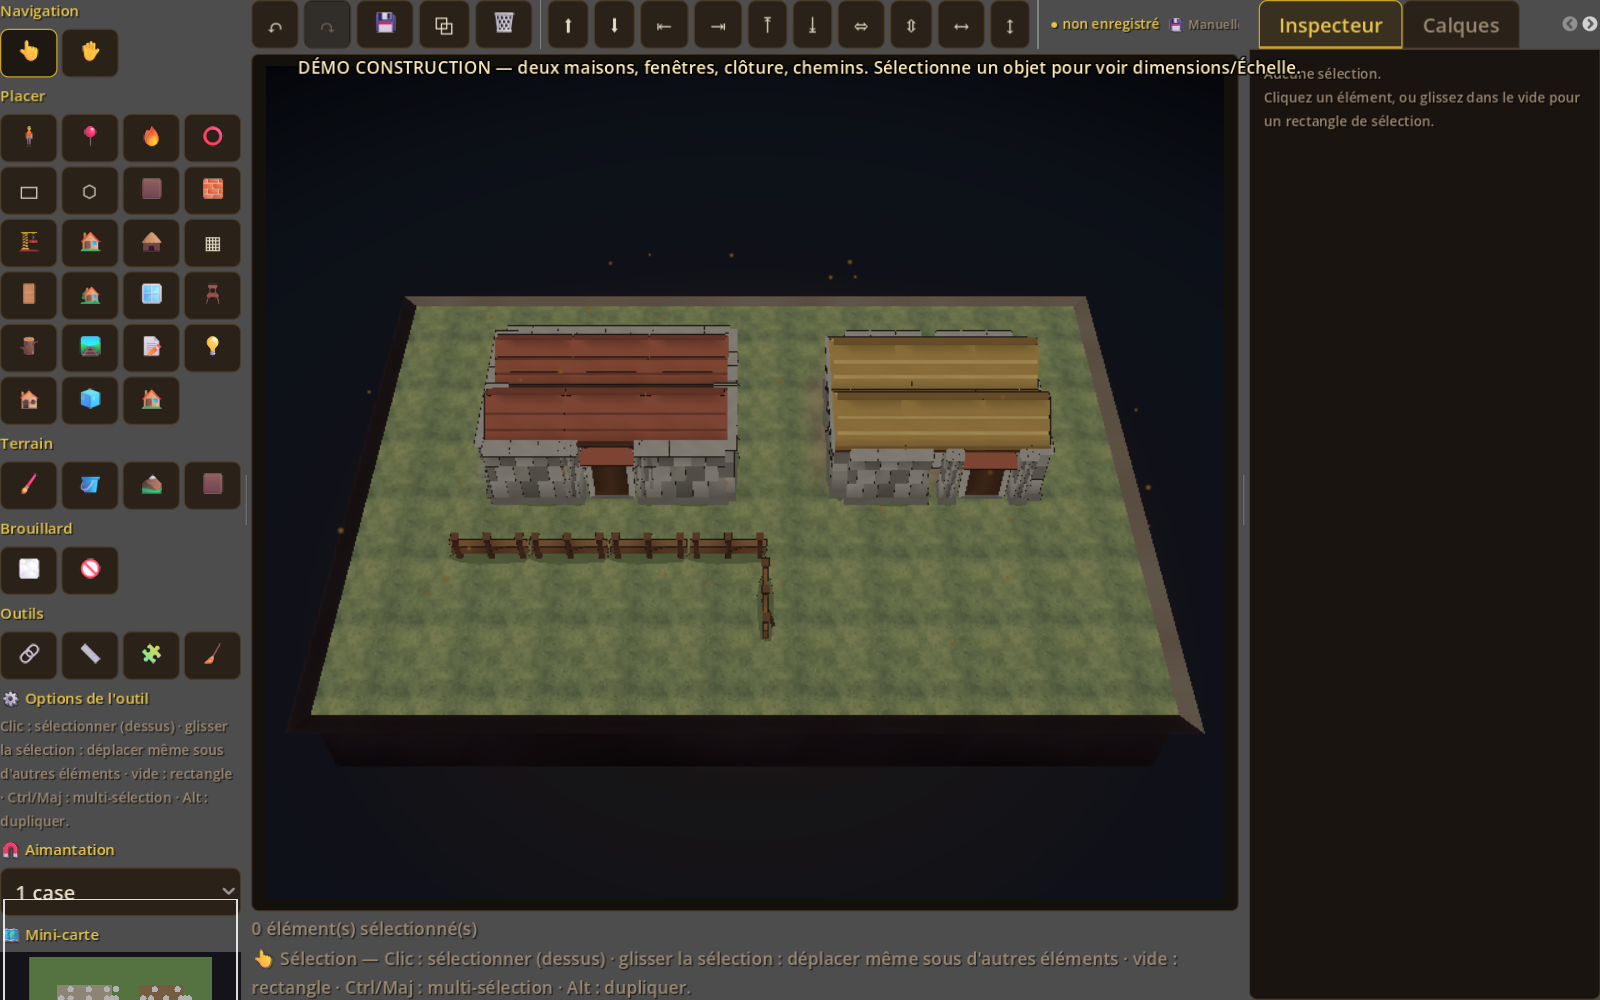
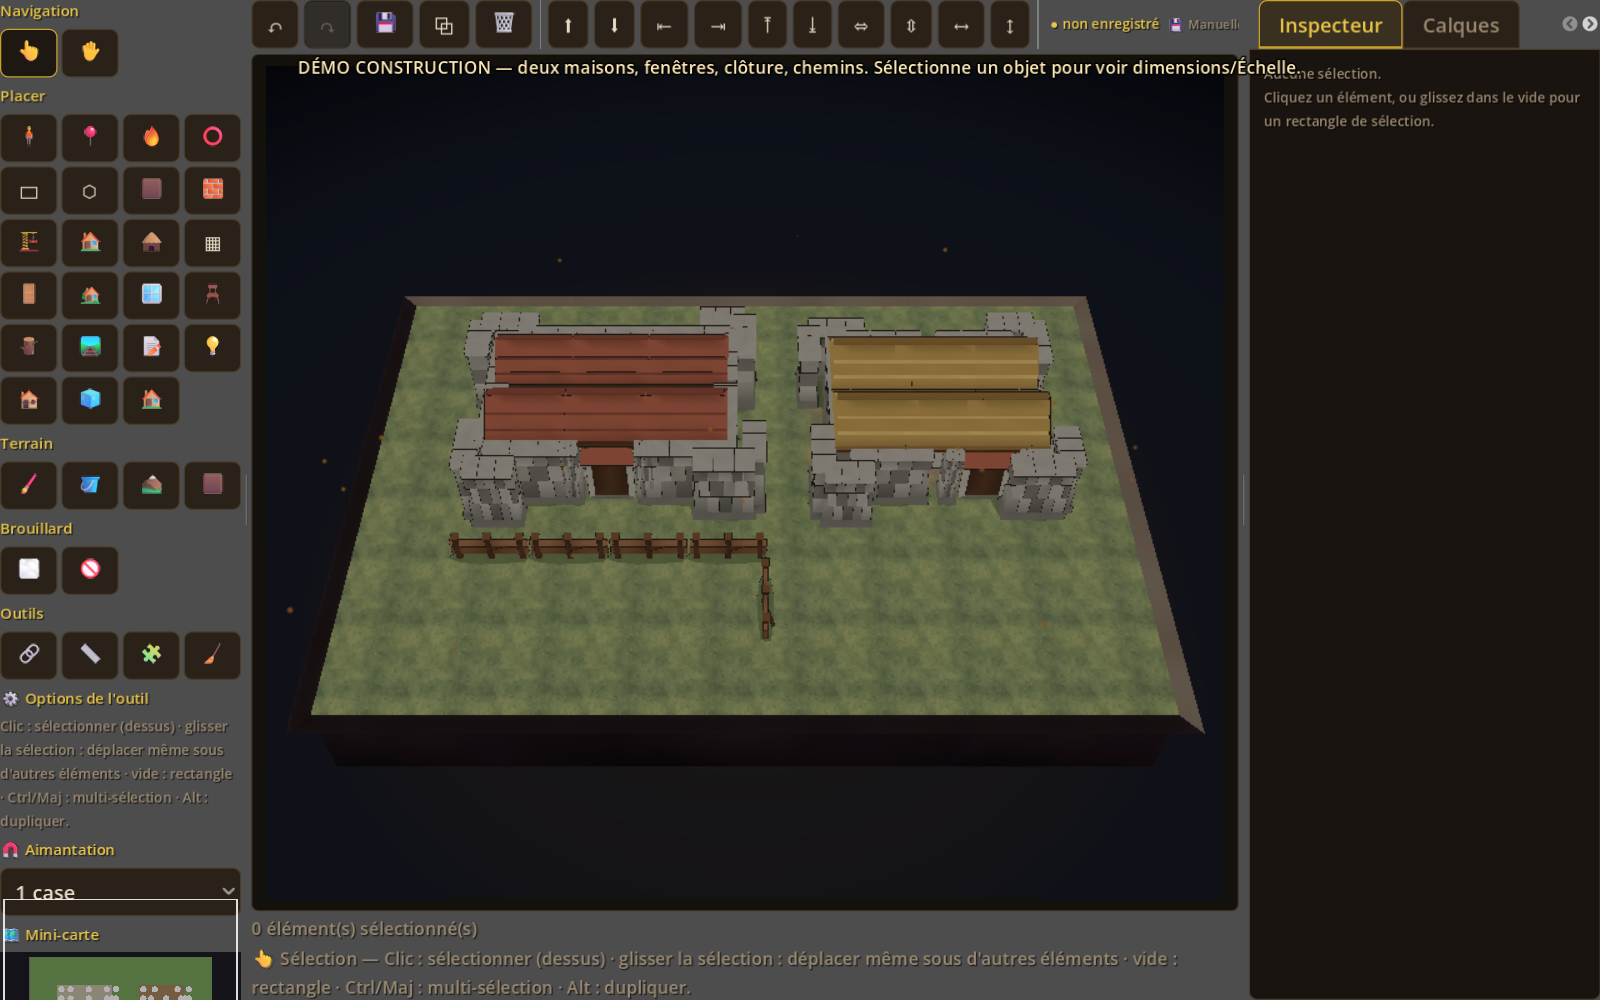
feat(construction): coins de murs integres aux pieces 3D

diff --git a/docs/MAP_EDITOR.md b/docs/MAP_EDITOR.md
@@ -223,7 +223,7 @@ clic, le glisser et le relâchement (équivalent des `MouseLogic_*` de Meownopol
 | Placer | 🟫 Plateforme | `7` | Trace une plateforme surélevée (étage, pont, estrade) |
 | Placer | 🧱 Mur | `8` | Trace un mur de plateau (occultation, vue VTT) |
 | Placer | 🏗 Mur 3D | — | Clic-glisser : construis une **rangée de murs 3D modulaires** (`mur.glb`) orientés le long du tracé, alignés au terrain ; hauteur réglable — base de construction « Sims » |
-| Placer | 🏠 Pièce 3D | — | Clic-glisser un rectangle : **4 murs** fermés (angles par recouvrement), hauteur réglable, prêts à recevoir porte, fenêtre et toit |
+| Placer | 🏠 Pièce 3D | — | Clic-glisser un rectangle : **4 murs + 4 coins** fermés, hauteur réglable, prêts à recevoir porte, fenêtre et toit |
 | Placer | 🛖 Toit 3D | — | Clic-glisser au-dessus d'une pièce : grille de **tuiles de toit 2 pans** à la hauteur réglée ; styles **Tuiles / Chaume / Croupe / Appentis** |
 | Placer | ▦ Dallage | — | Clic-glisser dans une pièce : sol **pierre/terre/herbe/sable/neige** et nivellement du terrain |
 | Placer | 🚪 Porte 3D | — | Clic sur un **mur 3D** : ouvre une baie (deux montants) et insère une porte à auvent |

diff --git a/docs/GUIDE_CARTE_25D.md b/docs/GUIDE_CARTE_25D.md
@@ -79,8 +79,8 @@ Outils terrain :
   modulaires** (`mur.glb`) orientés et alignés au terrain, avec **hauteur
   réglable** ; les façades (porte, fenêtre, auvent) peuvent ensuite s'aimanter
   dessus. Base de construction libre façon Sims.
-- **Outil 🏠 Pièce 3D** : glisse un rectangle pour fermer une pièce (4 murs qui
-  se recouvrent aux angles), puis pose porte/fenêtre/auvent et un toit.
+- **Outil 🏠 Pièce 3D** : glisse un rectangle pour fermer une pièce (4 murs + 4
+  coins d'angle), puis pose porte/fenêtre/auvent et un toit.
 - **Outil 🛖 Toit 3D** : glisse un rectangle au-dessus de la pièce ; génère une
   grille de tuiles à la hauteur réglée, avec styles **Tuiles / Chaume / Croupe /
   Appentis**.
